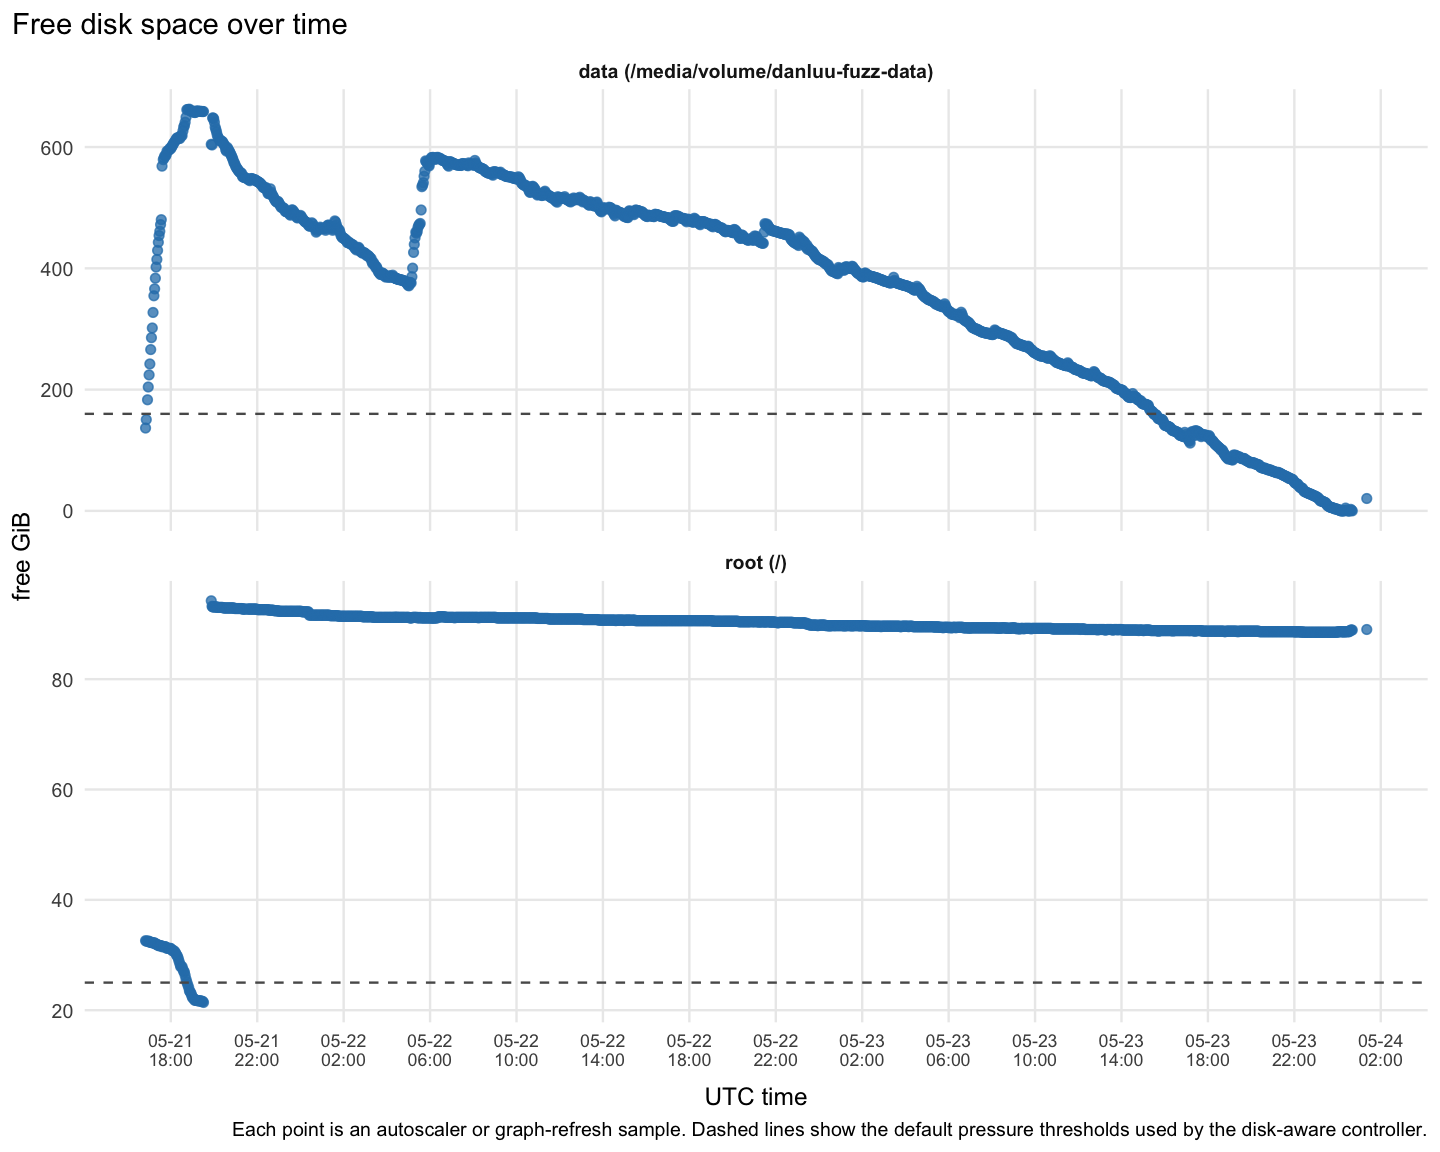
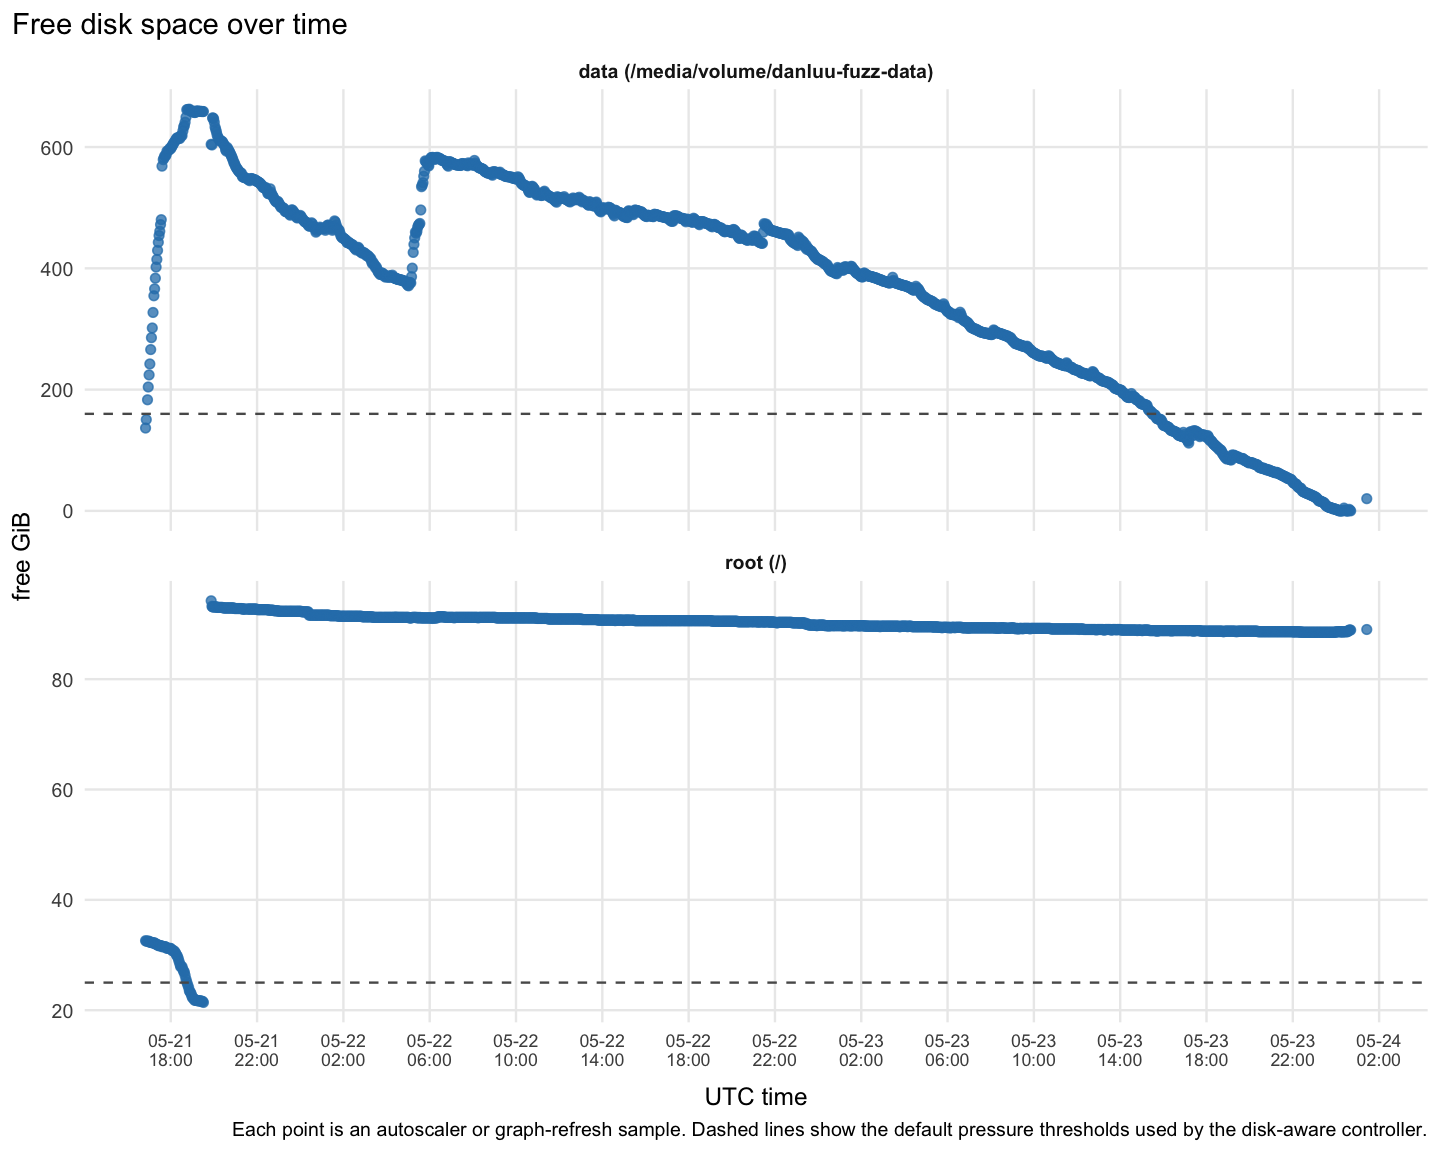
Refresh Jetstream fuzz trend report

diff --git a/docs/explanations/architecture/rtc-jetstream2-fuzz-trend-analysis-20260515.md b/docs/explanations/architecture/rtc-jetstream2-fuzz-trend-analysis-20260515.md
@@ -1,6 +1,6 @@
 # RTC Jetstream2 fuzz trend analysis
 
-Snapshot generated: `2026-05-24T01:21:54Z`
+Snapshot generated: `2026-05-24T01:26:19Z`
 
 This report summarizes the Jetstream2 RTC fuzzing, coverage-guidance,
 resource, and PR-progress logs. The summarized CSVs and plots are committed
@@ -57,7 +57,7 @@ measured product duplicate/noise rate.
 Disk remains the resource constraint, while CPU/load eased in the newest
 sample. Latest CPU utilization is `7.13%`, with `0.01%` iowait. Latest load
 averages are `4.97`, `5.56`, and `8.07` on `64` logical CPUs, with `0`
-blocked tasks. Root has `89.0GiB` free and the data volume has `20.4GiB` free
+blocked tasks. Root has `89.0GiB` free and the data volume has `20.1GiB` free
 while `99.4%` used.
 
 The latest graph-counted fuzzing mix is still browser/e2e-heavy and remains
@@ -158,7 +158,7 @@ finishes.
 
 The disk graph tracks both root and the mounted data volume. Root pressure is
 stable at `89.0GiB` free and `42.2%` used; the data volume is now at
-`20.4GiB` free and `99.4%` used in the latest sample. That is no longer a
+`20.1GiB` free and `99.4%` used in the latest sample. That is no longer a
 hard-zero free-space sample, but output-size budgeting remains the dominant
 live resource constraint.
 
@@ -228,7 +228,7 @@ PR07C owner-matrix work from current-head green owner evidence with
 `product_owned_rows=0`. It also notes the fresh coverage-guided root had `11`
 groups still starting and `0` running at `2026-05-24T00:39:20Z`, and observed
 severe disk pressure at feedback time. The refreshed mix graph has `19`
-browser/e2e is-latest lanes and the latest resource graph has `20.4GiB` free
+browser/e2e is-latest lanes and the latest resource graph has `20.1GiB` free
 on a `99.4%` used data volume; treat that as continued evidence for
 disk-constrained, bounded-lane operation rather than broad expansion.
 
@@ -525,7 +525,7 @@ repair job was launched but still pending; treat queued, held, or blocked rows
 as unresolved until row-bearing owner evidence appears, while PR07C
 owner-matrix should stay terminal unless newer current-head owner evidence
 appears. The refreshed controller stream added two more PR07C no-relaunch
-events through `2026-05-24T01:19:46Z`; that is suppression evidence, not a
+events through `2026-05-24T01:23:52Z`; that is suppression evidence, not a
 new filing surface.
 
 ## Interpretation
@@ -561,7 +561,7 @@ strong product evidence.
 The resource picture is disk-constrained but no longer CPU/load-bound in the
 newest sample: latest CPU utilization is `7.13%`, iowait is `0.01%`,
 one-minute load is `4.97` on `64` logical CPUs with `0` blocked tasks, and
-the data volume is `99.4%` used with `20.4GiB` free. Optional browser
+the data volume is `99.4%` used with `20.1GiB` free. Optional browser
 admission should still respect load, iowait, and output-volume pressure.
 
 The graph-counted fuzzing mix is browser/e2e-heavy but below the plotted
